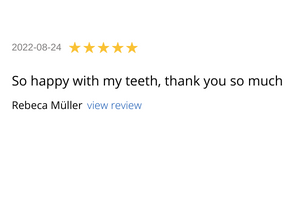
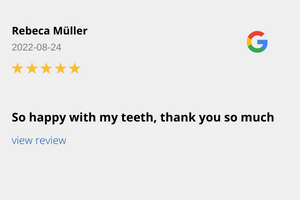
Add inital changes to section reviews

diff --git a/index.html b/index.html
@@ -236,7 +236,7 @@
     </section> <!-- end who we are section -->
   
   
-    <section id="reviews" class="dark-gray">
+    <section id="reviews">
         <div class="innerbox">
             <span class="label">reviews</span>
            
